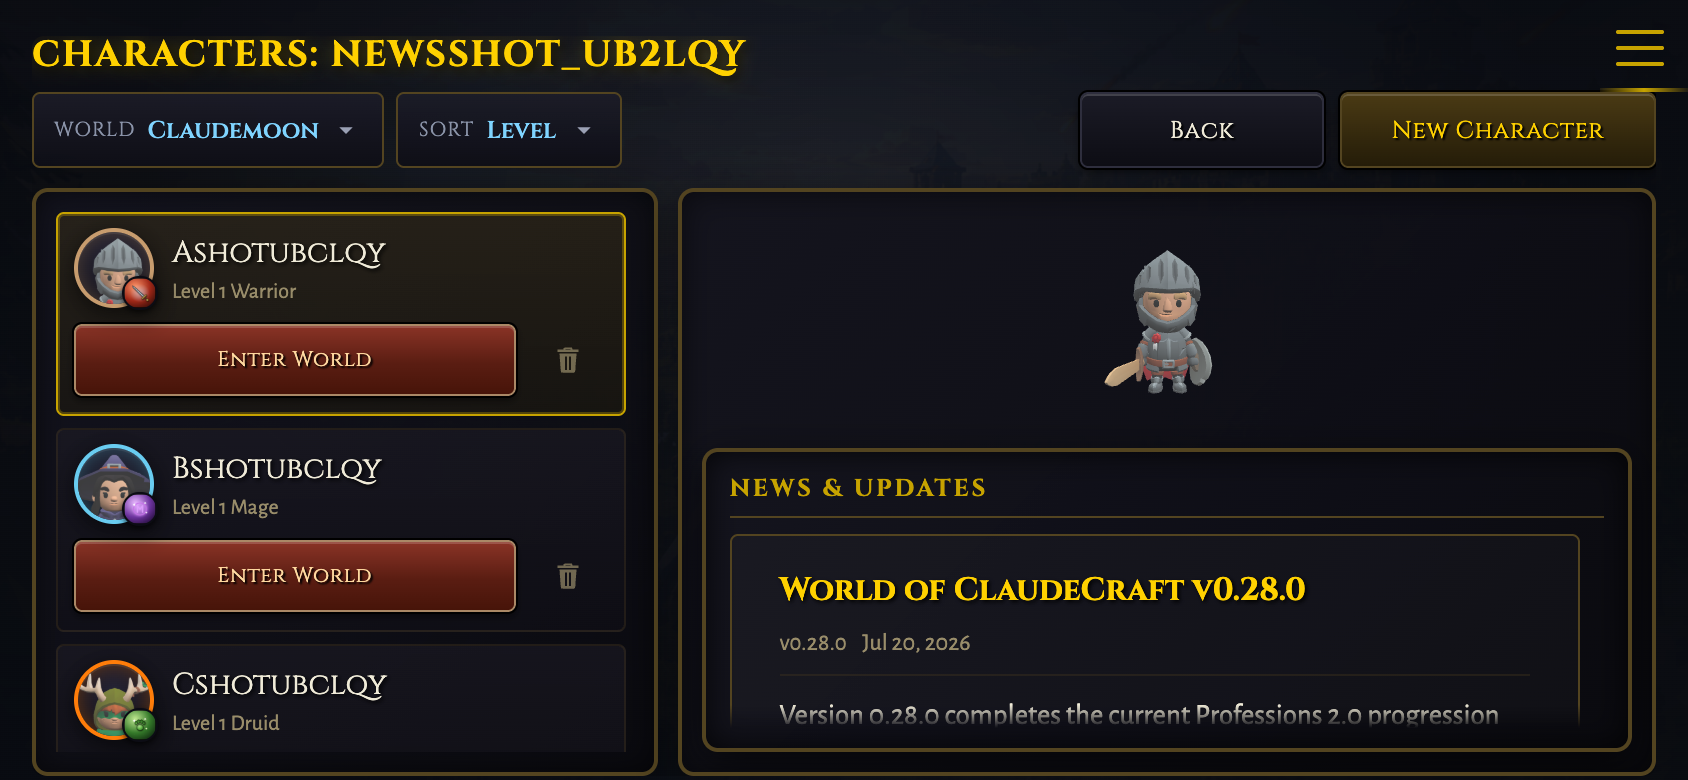
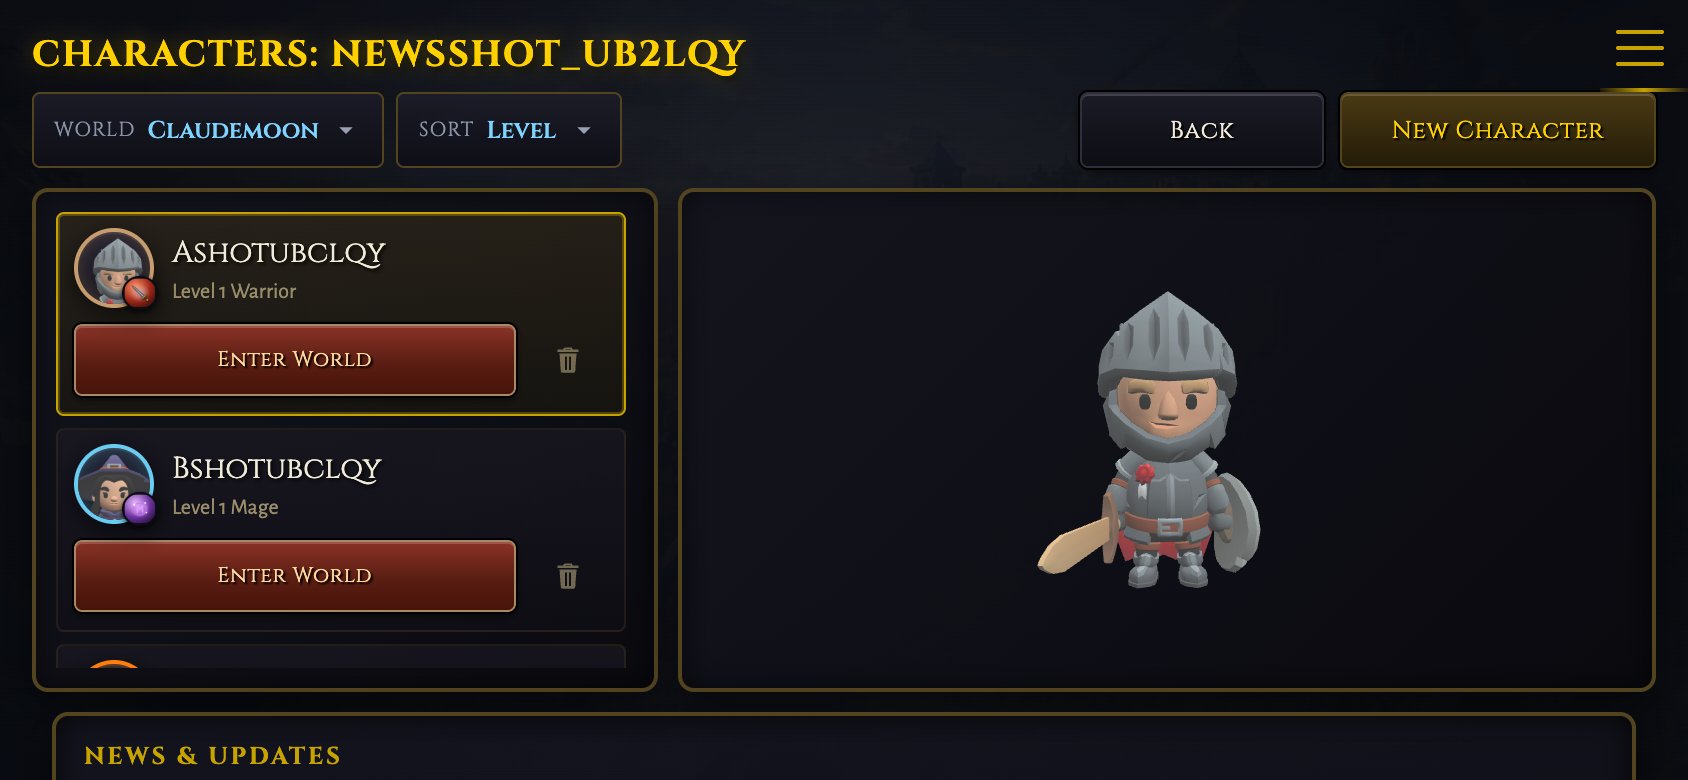
feat(ui): flow the news panel below the character screen on mobile
The panel leaves the character-select stage on mobile: it is now a
sibling of the roster/preview grid, spans the full panel width below
them, and the charselect panel grows past its landscape height clamp so
the page (the #start-screen scroller) reaches it. The feed renders at
natural height with no nested scroll region or bottom fade, so players
scroll and read; the panel title peeks at the fold as the cue. Desktop
keeps the absolute left-edge dock anchored to the same .cs-body box.

diff --git a/src/styles/shell.css b/src/styles/shell.css
@@ -5177,12 +5177,21 @@
     overflow: visible;
   }
   body.mobile-touch #charselect-panel #charselect-news {
-    flex: 1 1 auto;
+    flex: none;
     width: 100%;
     height: auto;
     min-height: 0;
     max-height: none;
     margin-bottom: 0;
+  }
+  /* The page is the scroller on mobile: the feed renders at natural height
+     (no nested scroll region, no bottom fade hiding the tail mid-read). */
+  body.mobile-touch #charselect-panel .cs-news-feed {
+    flex: none;
+    min-height: 0;
+    overflow: visible;
+    -webkit-mask-image: none;
+    mask-image: none;
   }
   body.mobile-touch .char-row {
     display: grid;
@@ -6178,6 +6187,18 @@
       overflow: hidden;
       padding: 0;
     }
+    /* charselect only: the news panel flows BELOW the roster/preview stage,
+       so the panel grows with it and the page scrolls; the .cs-body grid row
+       above keeps (roughly) the old one-screen height. charcreate keeps the
+       clamped, non-scrolling panel. */
+    body.mobile-touch #charselect-panel {
+      height: auto;
+      overflow: visible;
+    }
+    body.mobile-touch #charselect-panel .cs-body {
+      flex: 0 0 auto;
+      grid-template-rows: calc(min(560px, var(--app-vh) - 20px) - 118px) auto;
+    }
     body.mobile-touch #charselect-panel .auth-title,
     body.mobile-touch #charcreate-panel .auth-title {
       font-size: 18px;
@@ -6324,45 +6345,24 @@
     body.mobile-touch #charselect-panel .cs-detail-col {
       display: flex;
       flex-direction: column;
-      gap: 8px;
     }
     body.mobile-touch #charselect-panel .cs-detail-col .cs-preview {
-      flex: 0 0 38%;
+      flex: 1 1 auto;
       height: auto;
       min-height: 110px;
       min-width: 0;
     }
     body.mobile-touch #charselect-panel #charselect-news {
+      grid-column: 1 / -1;
       box-sizing: border-box;
-      min-height: 0;
-      height: auto;
-      padding: 10px 12px;
+      width: auto;
+      margin: 0 10px 10px;
+      padding: 12px 14px;
     }
     body.mobile-touch #charselect-panel .cs-news-title {
       font-size: 12px;
       padding-bottom: 6px;
       margin-bottom: 8px;
-    }
-    body.mobile-touch #charselect-panel .cs-news-feed {
-      overflow-y: auto;
-      scrollbar-gutter: stable;
-      scrollbar-width: auto;
-      scrollbar-color: var(--scrollbar-thumb) var(--scrollbar-track);
-      padding-right: 12px;
-      font-size: 11.5px;
-    }
-    body.mobile-touch #charselect-panel .cs-news-feed::-webkit-scrollbar {
-      width: 10px;
-    }
-    body.mobile-touch #charselect-panel .cs-news-feed::-webkit-scrollbar-track {
-      background: var(--scrollbar-track);
-      border: 1px solid #35270f;
-      border-radius: 999px;
-    }
-    body.mobile-touch #charselect-panel .cs-news-feed::-webkit-scrollbar-thumb {
-      background: linear-gradient(180deg, var(--scrollbar-thumb) 0%, #3a2b10 100%);
-      border: 1px solid var(--scrollbar-border);
-      border-radius: 999px;
     }
     body.mobile-touch #charcreate-panel .cs-body {
       grid-template-columns: minmax(310px, 0.95fr) minmax(360px, 1.05fr);

diff --git a/tests/client_shell.test.ts b/tests/client_shell.test.ts
@@ -1440,14 +1440,14 @@ describe('client HTML shell', () => {
       'body.mobile-touch #charselect-panel #char-list::-webkit-scrollbar {\n      width: 8px;',
     );
     expect(shellCss).toContain(
-      'body.mobile-touch #charselect-panel #charselect-news {\n      box-sizing: border-box;\n      min-height: 0;',
+      'body.mobile-touch #charselect-panel #charselect-news {\n      grid-column: 1 / -1;',
     );
     expect(shellCss).toContain('scrollbar-gutter: stable;\n      scrollbar-width: auto;');
     expect(shellCss).toContain(
-      'body.mobile-touch #charselect-panel .cs-news-feed {\n      overflow-y: auto;\n      scrollbar-gutter: stable;\n      scrollbar-width: auto;',
+      'body.mobile-touch #charselect-panel {\n      height: auto;\n      overflow: visible;',
     );
     expect(shellCss).toContain(
-      'body.mobile-touch #charselect-panel .cs-news-feed::-webkit-scrollbar {\n      width: 10px;',
+      'body.mobile-touch #charselect-panel .cs-news-feed {\n    flex: none;\n    min-height: 0;\n    overflow: visible;',
     );
     // charselect's columns stay overflow:hidden (their #char-list and
     // .cs-news-feed CHILDREN scroll); charcreate's columns hold a
@@ -1559,7 +1559,7 @@ describe('client HTML shell', () => {
   it('stacks the character-select news panel on mobile', () => {
     expect(html).toContain('id="charselect-news"');
     expect(shellCss).toContain(
-      'body.mobile-touch #charselect-panel #charselect-news {\n    flex: 1 1 auto;\n    width: 100%;',
+      'body.mobile-touch #charselect-panel #charselect-news {\n    flex: none;\n    width: 100%;',
     );
   });
 

diff --git a/index.html b/index.html
@@ -1050,11 +1050,13 @@
                 <div class="cs-preview-name" id="charselect-preview-name" aria-live="polite"></div>
                 <canvas id="char-preview-canvas"></canvas>
               </div>
-              <div id="charselect-news" class="cs-news-panel">
-                <div class="cs-news-title" data-i18n="news.title">News &amp; Updates</div>
-                <div id="charselect-news-feed" class="cs-news-feed" aria-live="polite">
-                  <div class="news-loading" data-i18n="news.loading">Loading the latest updates...</div>
-                </div>
+            </div>
+            <!-- Desktop docks this over the stage's left edge; mobile lets it
+                 flow below the roster/preview so the page scrolls to it. -->
+            <div id="charselect-news" class="cs-news-panel">
+              <div class="cs-news-title" data-i18n="news.title">News &amp; Updates</div>
+              <div id="charselect-news-feed" class="cs-news-feed" aria-live="polite">
+                <div class="news-loading" data-i18n="news.loading">Loading the latest updates...</div>
               </div>
             </div>
           </div>

diff --git a/play.html b/play.html
@@ -807,11 +807,13 @@
                 <div class="cs-preview-name" id="charselect-preview-name" aria-live="polite"></div>
                 <canvas id="char-preview-canvas"></canvas>
               </div>
-              <div id="charselect-news" class="cs-news-panel">
-                <div class="cs-news-title" data-i18n="news.title">News &amp; Updates</div>
-                <div id="charselect-news-feed" class="cs-news-feed" aria-live="polite">
-                  <div class="news-loading" data-i18n="news.loading">Loading the latest updates...</div>
-                </div>
+            </div>
+            <!-- Desktop docks this over the stage's left edge; mobile lets it
+                 flow below the roster/preview so the page scrolls to it. -->
+            <div id="charselect-news" class="cs-news-panel">
+              <div class="cs-news-title" data-i18n="news.title">News &amp; Updates</div>
+              <div id="charselect-news-feed" class="cs-news-feed" aria-live="polite">
+                <div class="news-loading" data-i18n="news.loading">Loading the latest updates...</div>
               </div>
             </div>
           </div>
